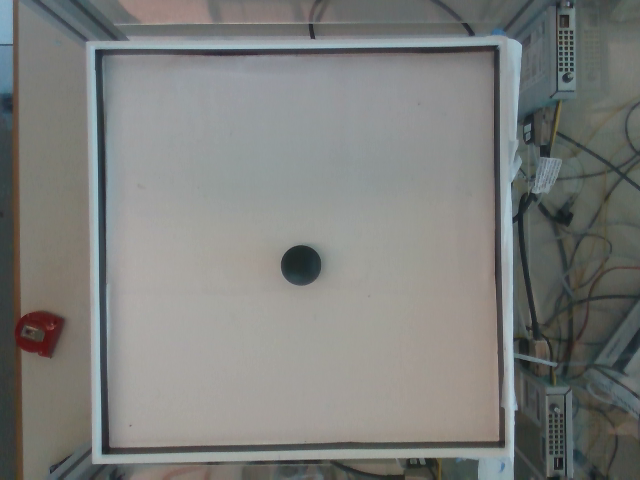
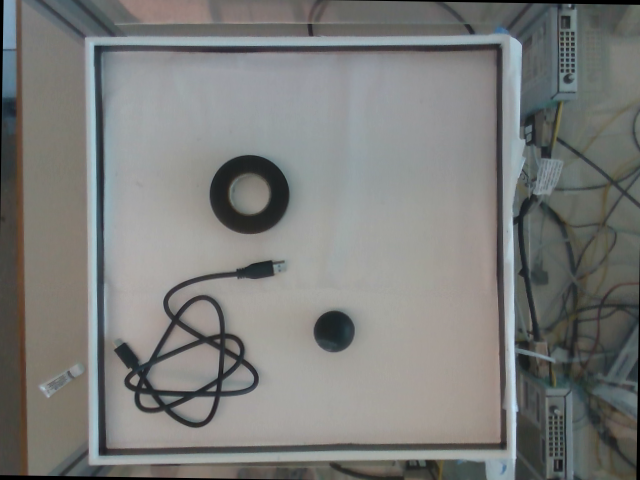
Saved figures for report

diff --git a/3D Camera/Processing Visualization.py b/3D Camera/Processing Visualization.py
@@ -116,9 +116,9 @@ cv2.resizeWindow("5 Final Detection", WINDOW_W, WINDOW_H)
 # Optional automatic layout
 cv2.moveWindow("1 RGB", 0, 0)
 cv2.moveWindow("2 Gaussian Blur", 650, 0)
-cv2.moveWindow("3 Threshold", 650, 0)
-cv2.moveWindow("4 Candidate Filtering", 1320, 0)
-cv2.moveWindow("5 Final Detection", 0, 520)
+cv2.moveWindow("3 Threshold", 1320, 0)
+cv2.moveWindow("4 Candidate Filtering", 0, 520)
+cv2.moveWindow("5 Final Detection", 650, 520)
 
 # =====================================================
 # FREEZE FEATURE
